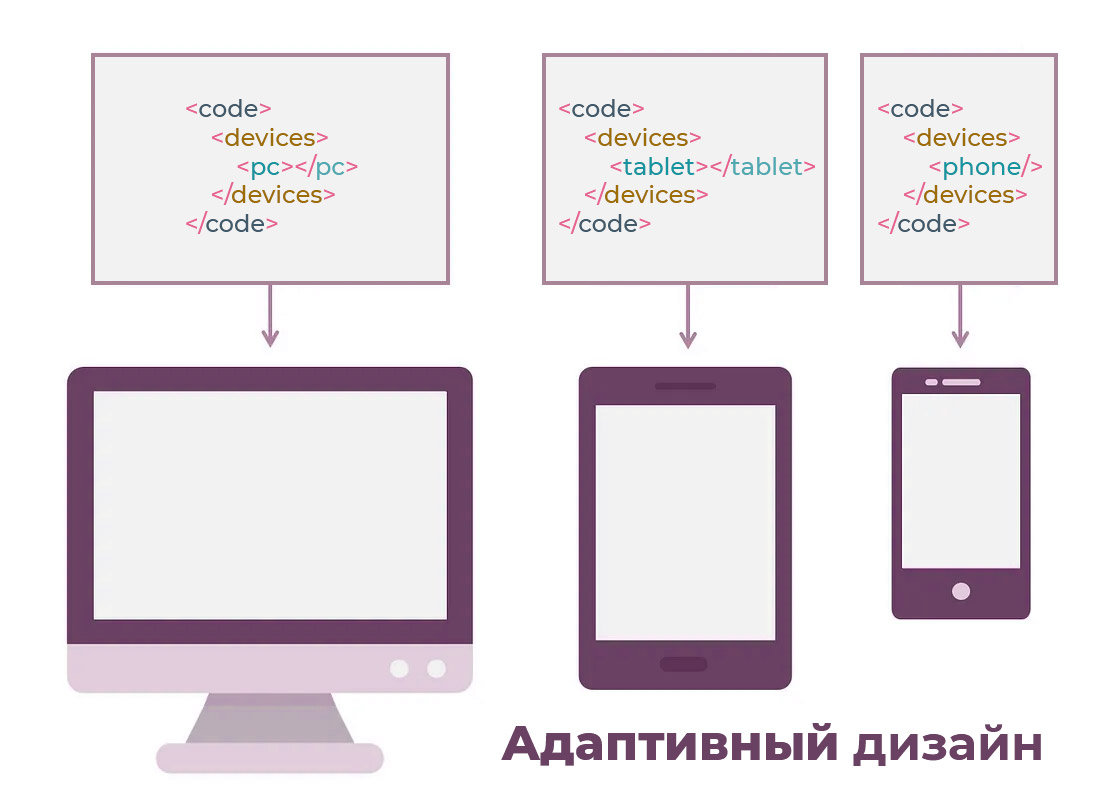
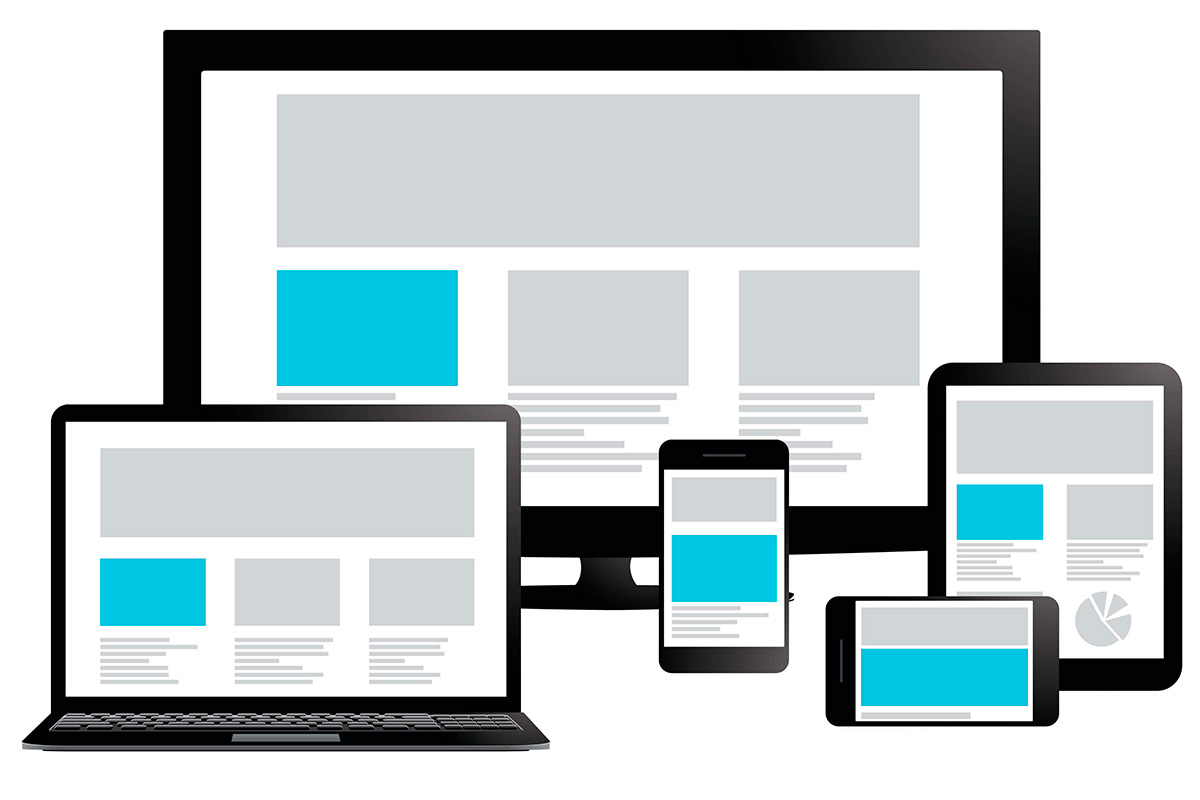
Add files via upload

diff --git a/adaptive.html b/adaptive.html
@@ -44,15 +44,21 @@
             <h1>Что такое адаптивный дизайн?</h1>
             <p>Адаптивный дизайн работает так: вы создаете не один универсальный сайт,
                 а несколько отдельных макетов под разные экраны. Когда человек заходит на сайт, сервер сразу понимает,
-                с какого устройства он зашел (телефон, планшет или компьютер), и показывает подходящий вариант дизайна.</p>
-
-            <img src="img/adaptive.jpg"
-                 srcset="img/adaptive-480.jpg 480w,
-                         img/adaptive-960.jpg 960w,
-                         img/adaptive-1440.jpg 1440w"
-                 sizes="(max-width: 768px) 100vw, (max-width: 1200px) 70vw, 800px"
-                 alt="Пример адаптивного дизайна"
-                 title="Адаптивный дизайн">
+                с какого устройства он зашел (телефон, планшет или компьютер), и показывает подходящий вариант дизайна.
+            </p>
+            
+            <figure class="image-figure">
+                <img src="img/adaptive.jpg"
+                    srcset="img/adaptive-480.jpg 480w,
+                            img/adaptive-960.jpg 960w,
+                            img/adaptive-1440.jpg 1440w"
+                    sizes="(max-width: 768px) 100vw, (max-width: 1200px) 70vw, 800px"
+                    alt="Пример адаптивного дизайна"
+                    title="Адаптивный дизайн">
+                <figcaption>
+                   Каждому диапазону экрана — отдельный макет. 
+                </figcaption>
+            </figure>
 
             <div class="page-info">
                 <h2>Что мы узнаем</h2>
@@ -112,14 +118,6 @@
                     с настольного компьютера или открывает мобильное приложение — интерфейс подстраивается под экран.
                     В итоге человек получает удобное управление и хорошую скорость работы.
                 </p>
-
-                <img src="img/vk.jpg"
-                     srcset="img/vk-480.jpg 480w,
-                             img/vk-960.jpg 960w,
-                             img/vk-1440.jpg 1440w"
-                     sizes="(max-width: 768px) 100vw, (max-width: 1200px) 70vw, 800px"
-                     alt="Интерфейс ВКонтакте на разных устройствах"
-                     title="ВКонтакте">
             </section>
 
             <section>

diff --git a/responsive.html b/responsive.html
@@ -49,13 +49,18 @@
                 от маленького телефона до большого настольного монитора. По сути, этот дизайн такой же гибкий, как и сам интернет.
             </p>
 
-            <img src="img/adaptive.jpg"
-                 srcset="img/adaptive-480.jpg 480w,
-                         img/adaptive-960.jpg 960w,
-                         img/adaptive-1440.jpg 1440w"
+            <figure class="image-figure">
+                <img src="img/responsive.png"
+                 srcset="img/responsive-480.png 480w,
+                         img/responsive-960.png 960w,
+                         img/responsive-1440.png 1440w"
                  sizes="(max-width: 768px) 100vw, (max-width: 1200px) 70vw, 800px"
-                 alt="Пример адаптивного дизайна"
-                 title="Адаптивный дизайн">
+                 alt="Пример отзывчивого дизайна"
+                 title="Отзывчивый дизайн">
+                <figcaption>
+                    Один макет плавно перестраивается под любой экран.
+                </figcaption>
+            </figure>
 
             <div class="page-info">
                 <h2>Что мы узнаем</h2>
@@ -120,13 +125,6 @@
                     смыслу — просто поданное так, как удобно именно этому устройству.
                 </p>
 
-                <img src="img/vk.jpg"
-                     srcset="img/vk-480.jpg 480w,
-                             img/vk-960.jpg 960w,
-                             img/vk-1440.jpg 1440w"
-                     sizes="(max-width: 768px) 100vw, (max-width: 1200px) 70vw, 800px"
-                     alt="Интерфейс ВКонтакте на разных устройствах"
-                     title="ВКонтакте">
             </section>
 
             <section>

diff --git a/history.html b/history.html
@@ -44,14 +44,6 @@
             <h1>История адаптивного и отзывчивого дизайна</h1>
             <p>Как адаптивный и отзывчивый дизайн стали стандартом — и что было до них.</p>
 
-            <img src="img/adaptive.jpg"
-                 srcset="img/adaptive-480.jpg 480w,
-                         img/adaptive-960.jpg 960w,
-                         img/adaptive-1440.jpg 1440w"
-                 sizes="(max-width: 768px) 100vw, (max-width: 1200px) 70vw, 800px"
-                 alt="Пример адаптивного дизайна"
-                 title="Адаптивный дизайн">
-
             <div class="page-info">
                 <h2>Что мы узнаем</h2>
                 <ul>

diff --git a/css/style.css b/css/style.css
@@ -883,3 +883,30 @@ pre code {
         padding-bottom: 56.25%;
     }
 }
+
+/* ================== ПОДПИСЬ ПОД КАРТИНКОЙ ================== */
+.image-figure {
+    margin: 1.5em 0;
+    display: flex;
+    flex-direction: column;
+    align-items: center;
+}
+
+.image-figure img {
+    max-width: 100%;
+    height: auto;
+    display: block;
+    border-radius: 12px;
+    margin: 0;
+}
+
+.image-figure figcaption {
+    margin-top: 0.6em;
+    font-size: 0.9em;
+    color: #556b5a;
+    text-align: center;
+    line-height: 1.5;
+    font-style: italic;
+    max-width: 700px;
+    padding: 0 1em;
+}

diff --git a/comparison.html b/comparison.html
@@ -86,6 +86,7 @@
                 <p>
                     Проще говоря: отзывчивый дизайн <b>непрерывен</b>, адаптивный — <b>дискретен</b>.
                 </p>
+            </figure>
             </section>
 
             <section id="table">
